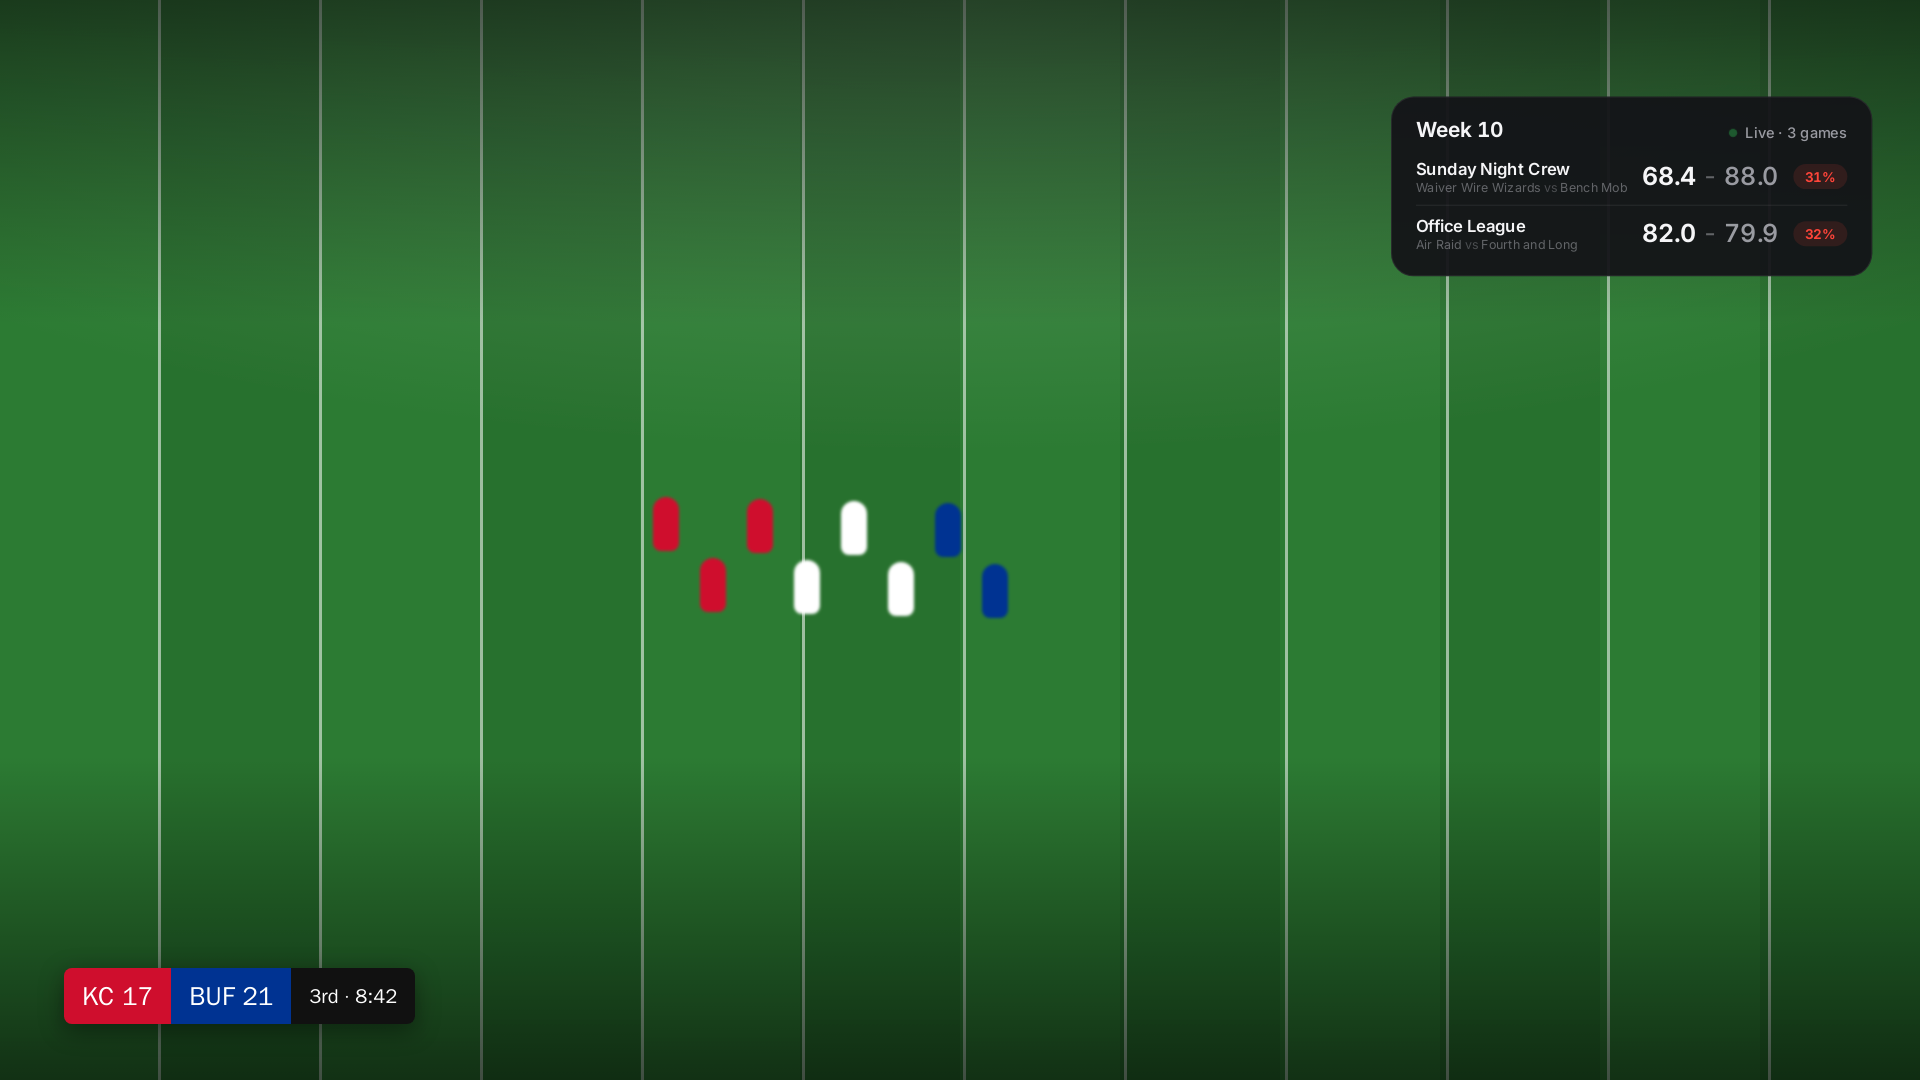
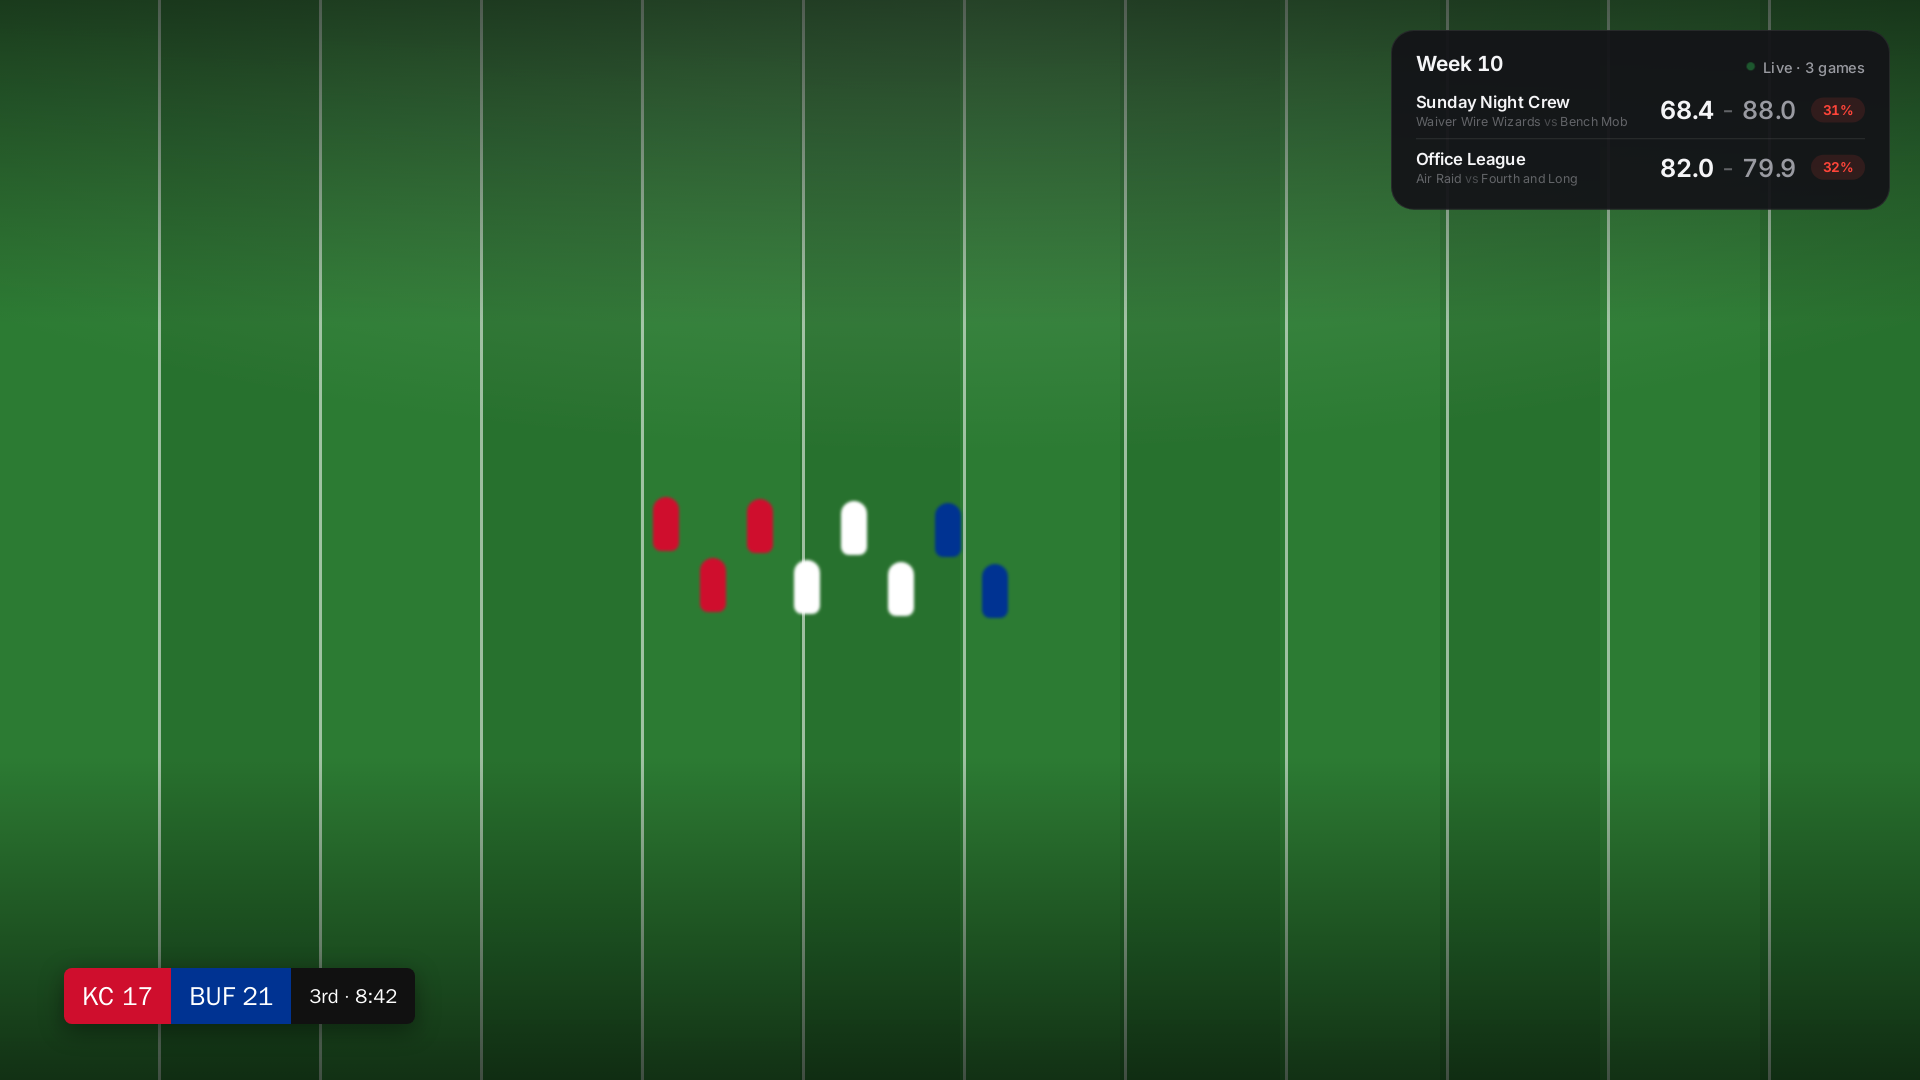
Add Playwright behaviour tests and fix score card layout
New make e2e (also in CI) checks that scores tick, leagues rotate, big-play
cards pop, pregame shows projections, the score card renders one row per
league, setup guidance appears, and the proxy and private config stay
locked down. It caught the score card body class colliding with the row
style, now fixed.

Claude-Session: https://claude.ai/code/session_01UWtWQ2r187bE4bSFua8tgW

Changed region(s): [[0.7188, 0.0306, 1.0, 0.275]]

diff --git a/web/panel.css b/web/panel.css
@@ -175,7 +175,7 @@ body.left .panel { border-left: 0; border-right: 1px solid var(--hair); }
 }
 
 /* Compact score card ("Hey Google, open Fantasy Scores") */
-body.mini .panel {
+body.card .panel {
   height: auto;
   padding: 20px 24px 14px;
   border: 0;
@@ -183,12 +183,12 @@ body.mini .panel {
   background: rgba(20, 20, 24, 0.94);
   box-shadow: inset 0 0 0 1px rgba(255, 255, 255, 0.08);
 }
-body.mini .top { margin-bottom: 6px; }
-body.mini .week { font-size: 20px; }
-body.mini .matchups, body.mini .detail, body.mini .swing, body.mini .foot { display: none; }
-body.mini .others:not(:empty) { border-top: 0; padding-top: 0; margin-top: 0; }
-body.mini .mini { padding: 9px 0; }
-body.mini .mini + .mini { border-top: 1px solid var(--hair); }
-body.mini .mini-league { font-size: 16px; }
-body.mini .mini-score { font-size: 24px; }
-body.mini .toasts { display: none; }
+body.card .top { margin-bottom: 6px; }
+body.card .week { font-size: 20px; }
+body.card .matchups, body.card .detail, body.card .swing, body.card .foot { display: none; }
+body.card .others:not(:empty) { border-top: 0; padding-top: 0; margin-top: 0; }
+body.card .mini { padding: 9px 0; }
+body.card .mini + .mini { border-top: 1px solid var(--hair); }
+body.card .mini-league { font-size: 16px; }
+body.card .mini-score { font-size: 24px; }
+body.card .toasts { display: none; }

diff --git a/web/js/app.js b/web/js/app.js
@@ -140,7 +140,7 @@ function rotate() {
 }
 
 async function main() {
-  if (MINI) document.body.classList.add('mini');
+  if (MINI) document.body.classList.add('card');
   if (params.get('side') === 'left') document.body.classList.add('left');
   if (params.get('solid')) document.body.classList.add('solid');
   const demo = params.has('demo');
